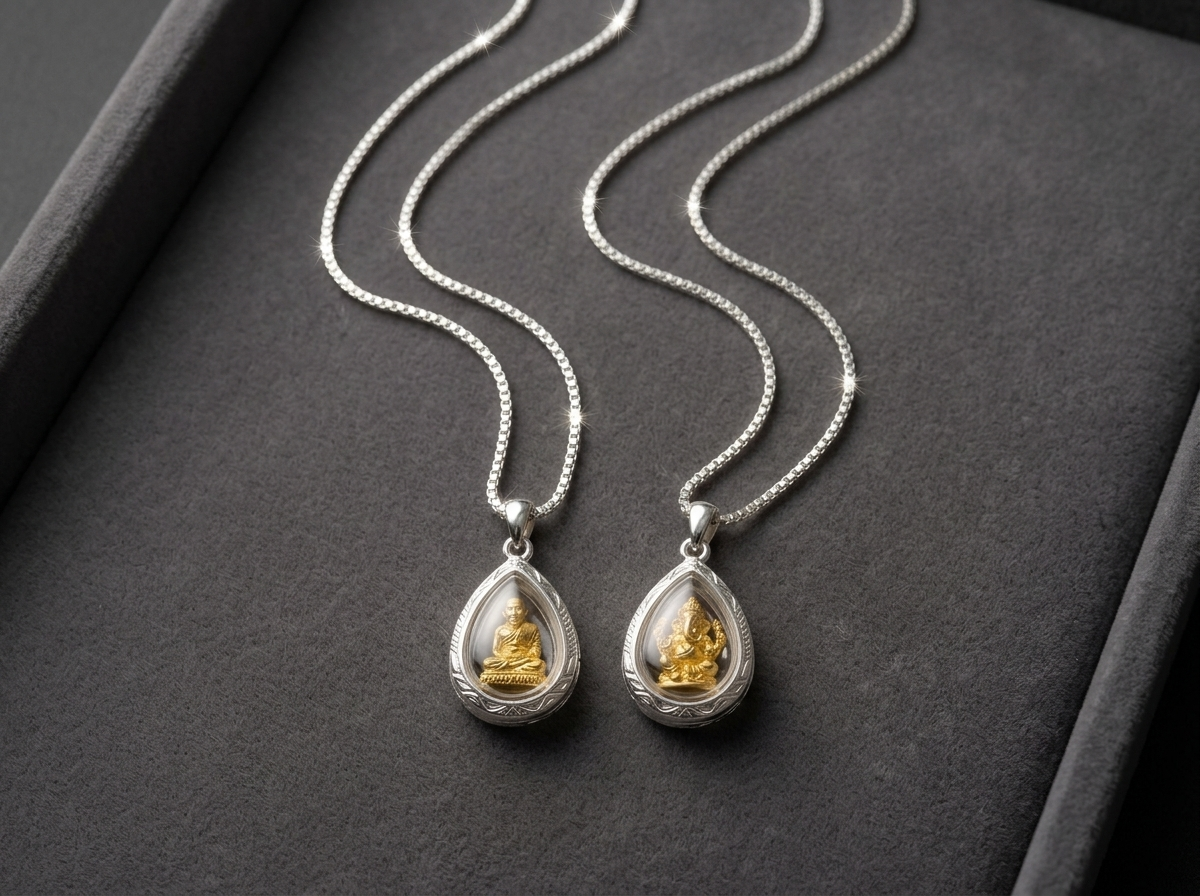
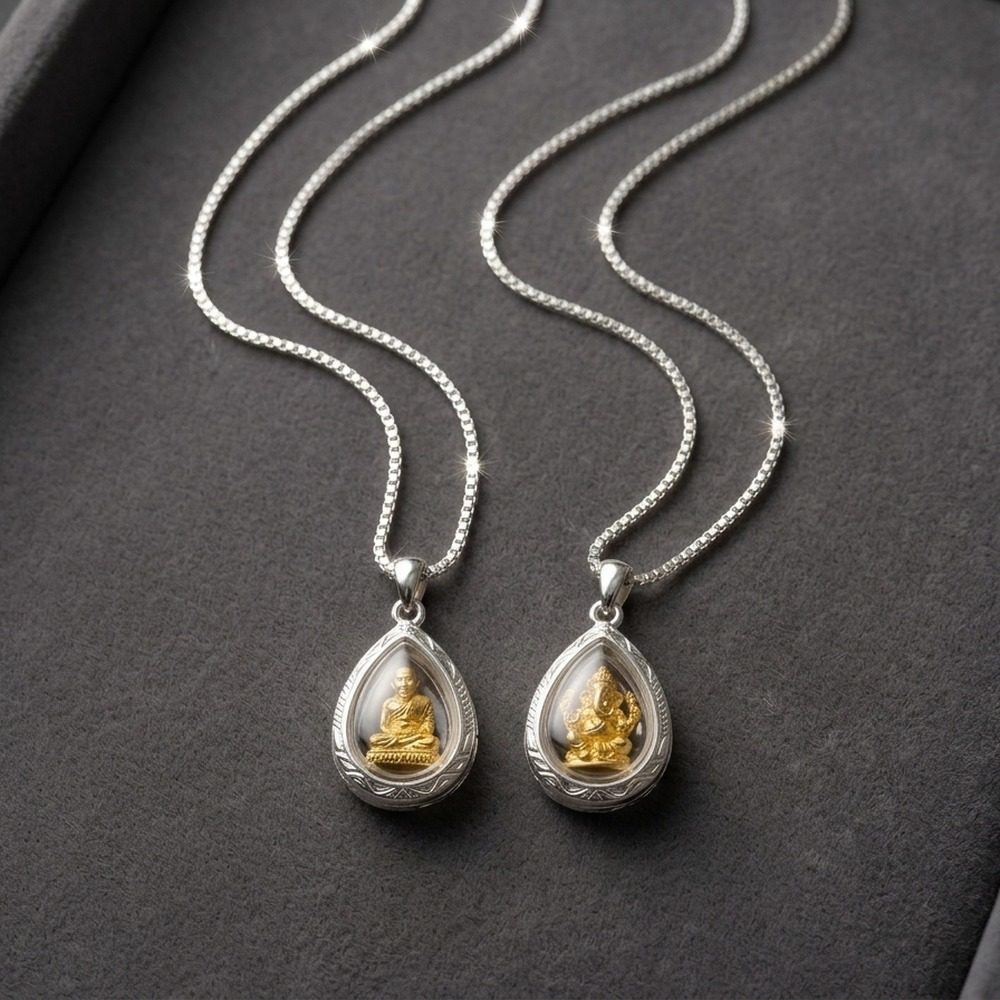
Enforce strict 1:1 square aspect ratio for product images across store and admin

diff --git a/styles.css b/styles.css
@@ -449,7 +449,8 @@ img {
 
 .sw-tile-media {
   position: relative;
-  aspect-ratio: 1 / 1.04;
+  width: 100%;
+  aspect-ratio: 1 / 1;
   background-color: var(--sw-tile-bg);
   overflow: hidden;
   border-bottom: 1px solid var(--sw-border);
@@ -474,9 +475,12 @@ img {
 }
 
 .sw-tile-img {
+  position: absolute;
+  inset: 0;
   width: 100%;
   height: 100%;
   object-fit: cover;
+  object-position: center;
   transition: transform 0.75s cubic-bezier(0.16, 1, 0.3, 1);
 }
 
@@ -745,9 +749,9 @@ img {
 
 .sw-modal-img {
   width: 100%;
-  height: 100%;
-  min-height: 400px;
+  aspect-ratio: 1 / 1;
   object-fit: cover;
+  object-position: center;
   background-color: var(--sw-tile-bg);
 }
 

diff --git a/app.js b/app.js
@@ -592,7 +592,7 @@ function renderBag() {
 
   bagItemsList.innerHTML = bag.map(i => `
     <div style="display: grid; grid-template-columns: 64px 1fr auto; gap: 14px; padding: 16px 0; border-bottom: 1px solid #E5E5E5; align-items: center;">
-      <img src="${i.image}" alt="${i.name}" style="width: 64px; height: 68px; object-fit: cover; background: #F3F2F0;">
+      <img src="${i.image}" alt="${i.name}" style="width: 64px; height: 64px; aspect-ratio: 1 / 1; object-fit: cover; background: #F3F2F0;">
       <div>
         <div style="font-size: 14px; font-weight: 500;">${i.name}</div>
         <div style="font-size: 12px; color: #767676;">${i.sub}</div>

diff --git a/admin.html b/admin.html
@@ -122,10 +122,11 @@
       border-color: #141414;
     }
     .img-preview {
-      width: 100%;
-      max-height: 220px;
-      object-fit: contain;
-      margin-bottom: 12px;
+      width: 200px;
+      height: 200px;
+      aspect-ratio: 1 / 1;
+      object-fit: cover;
+      margin: 0 auto 12px;
       display: none;
       background: #FFFFFF;
       border: 1px solid #E5E5E5;
